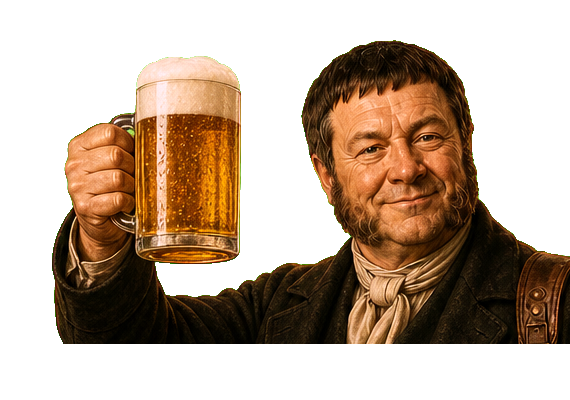
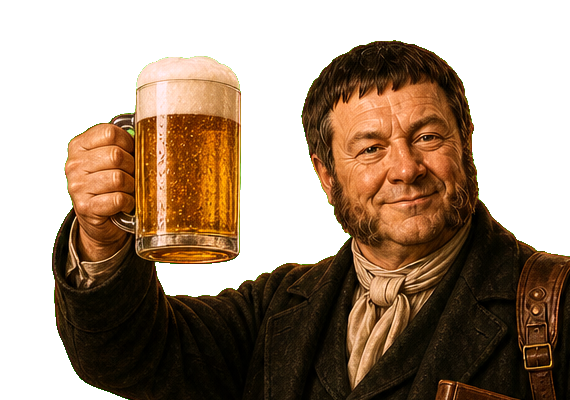
úprava selfie
selfie Groll

Changed region(s): [[0.1193, 0.84, 1.0, 1.0]]

diff --git a/app.js b/app.js
@@ -1557,10 +1557,11 @@ function openSelfieBooth(){
    <img id="selfieGroll" class="selfie-groll" src="${SELFIE_GROLL_SRC}" alt="Josef Groll připíjí pivem">
    <canvas id="selfieCanvas" class="selfie-canvas" width="1080" height="1440"></canvas>
    <img id="selfieResult" class="selfie-result" alt="Historická selfie s Grollem">
+   <div class="selfie-brand-strip"><span>Grollova zlatá stopa</span><b>Hravá Plzeň</b></div>
    <button id="selfieCaptureBtn" class="selfie-capture-btn" type="button" onclick="captureGrollSelfie()">Vyfotit</button>
   </div>
   <div class="selfie-controls">
-   <label>Velikost Grolla <input id="selfieSize" type="range" min="26" max="72" value="38" oninput="updateSelfieOverlay()"></label>
+   <label>Velikost Grolla <input id="selfieSize" type="range" min="22" max="64" value="34" oninput="updateSelfieOverlay()"></label>
    <label>Posun do stran <input id="selfieX" type="range" min="0" max="100" value="82" oninput="updateSelfieOverlay()"></label>
    <label>Výška <input id="selfieY" type="range" min="0" max="55" value="0" oninput="updateSelfieOverlay()"></label>
   </div>
@@ -1599,7 +1600,7 @@ function updateSelfieStageShape(){
 function updateSelfieOverlay(){
  const img=$('#selfieGroll');
  if(!img) return;
- const size=Number($('#selfieSize')?.value || 38);
+ const size=Number($('#selfieSize')?.value || 34);
  const x=Number($('#selfieX')?.value || 82);
  const y=Number($('#selfieY')?.value || 0);
  img.style.height=size+'%';
@@ -1607,23 +1608,26 @@ function updateSelfieOverlay(){
  img.style.bottom=y+'%';
 }
 function selfieVintageFilter(){
- return 'sepia(.46) saturate(.82) contrast(1.12) brightness(1.02)';
+ return 'sepia(.24) saturate(.78) contrast(1.04) brightness(.98)';
+}
+function selfieGrollFilter(){
+ return 'sepia(.62) saturate(.48) contrast(.92) brightness(.58)';
 }
 async function captureGrollSelfie(){
  const video=$('#selfieVideo'), groll=$('#selfieGroll'), canvas=$('#selfieCanvas'), result=$('#selfieResult'), status=$('#selfieStatus'), captureBtn=$('#selfieCaptureBtn');
  if(!video || !groll || !canvas || !video.videoWidth){ if(status) status.textContent='Fotoaparát ještě není připravený.'; return; }
- const portrait=video.videoHeight>=video.videoWidth;
+ const portrait=!$('#selfieStage')?.classList.contains('landscape');
  canvas.width=portrait ? 1080 : 1440;
  canvas.height=portrait ? 1440 : 1080;
  const ctx=canvas.getContext('2d');
  ctx.save();
- ctx.filter=selfieVintageFilter();
+ ctx.filter='contrast(1.02) brightness(.98) saturate(.92)';
  ctx.translate(canvas.width,0);
  ctx.scale(-1,1);
  drawCover(ctx, video, 0, 0, canvas.width, canvas.height);
  ctx.restore();
  const overlay=await loadImage(SELFIE_GROLL_SRC);
- const size=Number($('#selfieSize')?.value || 38)/100;
+ const size=Number($('#selfieSize')?.value || 34)/100;
  const xPct=Number($('#selfieX')?.value || 82)/100;
  const yPct=Number($('#selfieY')?.value || 0)/100;
  const gh=canvas.height*size;
@@ -1631,9 +1635,11 @@ async function captureGrollSelfie(){
  const gx=canvas.width*xPct-gw/2;
  const gy=canvas.height-canvas.height*yPct-gh;
  ctx.save();
- ctx.filter=selfieVintageFilter();
+ ctx.filter=selfieGrollFilter();
+ ctx.globalAlpha=.88;
  ctx.drawImage(overlay,gx,gy,gw,gh);
  ctx.restore();
+ applyAntiquePhoto(ctx, canvas);
  drawSelfieFinish(ctx, canvas);
  selfieLastBlob=await new Promise(resolve=>canvas.toBlob(resolve,'image/png'));
  if(result && selfieLastBlob){
@@ -1642,6 +1648,7 @@ async function captureGrollSelfie(){
   video.style.display='none';
   groll.style.display='none';
   if(captureBtn) captureBtn.style.display='none';
+  $('#selfieStage')?.classList.add('captured');
  }
  if(status) status.textContent='Hotovo. Fotku si můžete stáhnout nebo sdílet přes telefon.';
  addLog('selfie_captured');
@@ -1653,13 +1660,26 @@ function drawCover(ctx, source, x, y, w, h){
  const dw=sw*scale, dh=sh*scale;
  ctx.drawImage(source,x+(w-dw)/2,y+(h-dh)/2,dw,dh);
 }
+function applyAntiquePhoto(ctx, canvas){
+ const image=ctx.getImageData(0,0,canvas.width,canvas.height);
+ const data=image.data;
+ for(let i=0;i<data.length;i+=4){
+  const r=data[i], g=data[i+1], b=data[i+2];
+  let lum=0.299*r+0.587*g+0.114*b;
+  lum=(lum-128)*1.04+128;
+  data[i]=clamp(Math.round(lum*.98+34),0,255);
+  data[i+1]=clamp(Math.round(lum*.84+28),0,255);
+  data[i+2]=clamp(Math.round(lum*.58+18),0,255);
+ }
+ ctx.putImageData(image,0,0);
+}
 function drawSelfieFinish(ctx, canvas){
  ctx.save();
  ctx.globalCompositeOperation='multiply';
- ctx.fillStyle='rgba(214,167,94,.18)';
+ ctx.fillStyle='rgba(196,139,72,.16)';
  ctx.fillRect(0,0,canvas.width,canvas.height);
  ctx.globalCompositeOperation='screen';
- ctx.fillStyle='rgba(255,232,176,.08)';
+ ctx.fillStyle='rgba(255,230,178,.06)';
  ctx.fillRect(0,0,canvas.width,canvas.height);
  ctx.restore();
  const vignette=ctx.createRadialGradient(canvas.width/2,canvas.height/2,canvas.width*.18,canvas.width/2,canvas.height/2,canvas.width*.82);
@@ -1670,18 +1690,23 @@ function drawSelfieFinish(ctx, canvas){
  ctx.fillRect(0,0,canvas.width,canvas.height);
  ctx.fillStyle='rgba(255,236,184,.10)';
  ctx.fillRect(0,0,canvas.width,canvas.height);
- ctx.strokeStyle='rgba(76,38,8,.65)';
- ctx.lineWidth=Math.max(18,canvas.width*.018);
- ctx.strokeRect(ctx.lineWidth/2,ctx.lineWidth/2,canvas.width-ctx.lineWidth,canvas.height-ctx.lineWidth);
- const labelPad=Math.round(canvas.width*.018);
- const labelH=Math.round(canvas.width*.048);
- ctx.fillStyle='rgba(43,24,10,.34)';
- ctx.fillRect(labelPad,canvas.height-labelH-labelPad,labelH*9,labelH);
+ const border=Math.max(22,canvas.width*.022);
+ ctx.strokeStyle='rgba(71,38,14,.9)';
+ ctx.lineWidth=border;
+ ctx.strokeRect(border/2,border/2,canvas.width-border,canvas.height-border);
+ ctx.strokeStyle='rgba(245,205,126,.62)';
+ ctx.lineWidth=Math.max(5,canvas.width*.006);
+ ctx.strokeRect(border*1.15,border*1.15,canvas.width-border*2.3,canvas.height-border*2.3);
+ const labelH=Math.round(canvas.height*.052);
+ ctx.fillStyle='rgba(35,18,7,.72)';
+ ctx.fillRect(0,canvas.height-labelH,canvas.width,labelH);
+ ctx.fillStyle='rgba(245,205,126,.82)';
+ ctx.fillRect(0,canvas.height-labelH,canvas.width,Math.max(3,canvas.height*.004));
  ctx.fillStyle='#f8dfaa';
  ctx.textAlign='center';
  ctx.textBaseline='middle';
- ctx.font=`700 ${Math.round(canvas.width*.024)}px Georgia, "Times New Roman", serif`;
- ctx.fillText('Grollova zlatá stopa · Hravá Plzeň', labelPad+(labelH*4.5), canvas.height-labelPad-(labelH/2));
+ ctx.font=`700 ${Math.round(canvas.width*.025)}px Georgia, "Times New Roman", serif`;
+ ctx.fillText('Grollova zlatá stopa · Hravá Plzeň', canvas.width/2, canvas.height-labelH/2);
 }
 function retakeGrollSelfie(){
  const video=$('#selfieVideo'), groll=$('#selfieGroll'), result=$('#selfieResult'), status=$('#selfieStatus'), captureBtn=$('#selfieCaptureBtn');
@@ -1689,6 +1714,7 @@ function retakeGrollSelfie(){
  if(video) video.style.display='block';
  if(groll) groll.style.display='block';
  if(captureBtn) captureBtn.style.display='inline-flex';
+ $('#selfieStage')?.classList.remove('captured');
  if(status) status.textContent='Nastavte záběr a vyfoťte se znovu.';
 }
 function selfieFileName(){

diff --git a/style.css b/style.css
@@ -1483,7 +1483,7 @@
   position:relative;
   overflow:hidden;
   aspect-ratio:3/4;
-  max-height:min(62dvh,640px);
+  max-height:min(66dvh,680px);
   width:100%;
   margin:0 auto;
   border-radius:22px;
@@ -1493,7 +1493,7 @@
 }
 .selfie-stage.landscape{
   aspect-ratio:4/3;
-  max-height:min(58dvh,520px);
+  max-height:none;
 }
 .selfie-video,
 .selfie-canvas,
@@ -1506,7 +1506,7 @@
 }
 .selfie-video{
   transform:scaleX(-1);
-  filter:sepia(.46) saturate(.82) contrast(1.12) brightness(1.02);
+  filter:sepia(.24) saturate(.78) contrast(1.04) brightness(.98);
 }
 .selfie-canvas{
   display:none;
@@ -1519,10 +1519,11 @@
   position:absolute;
   z-index:2;
   transform:translateX(-50%);
-  height:38%;
+  height:34%;
   max-width:none;
   pointer-events:none;
-  filter:sepia(.46) saturate(.82) contrast(1.12) brightness(1.02) drop-shadow(0 12px 18px rgba(0,0,0,.35));
+  opacity:.88;
+  filter:sepia(.62) saturate(.48) contrast(.92) brightness(.58) drop-shadow(0 12px 18px rgba(0,0,0,.35));
 }
 .selfie-stage::after{
   content:"";
@@ -1531,15 +1532,42 @@
   z-index:3;
   pointer-events:none;
   background:
-    radial-gradient(circle at center, rgba(255,236,184,0) 46%, rgba(50,24,7,.34) 100%),
-    linear-gradient(0deg, rgba(130,78,28,.14), rgba(255,232,176,.08));
+    radial-gradient(circle at center, rgba(255,236,184,0) 54%, rgba(50,24,7,.18) 100%),
+    linear-gradient(0deg, rgba(130,78,28,.08), rgba(255,232,176,.05));
   mix-blend-mode:multiply;
+}
+.selfie-stage.captured::after{
+  display:none;
+}
+.selfie-brand-strip{
+  position:absolute;
+  z-index:4;
+  left:0;
+  right:0;
+  bottom:0;
+  height:38px;
+  display:flex;
+  align-items:center;
+  justify-content:center;
+  gap:8px;
+  background:rgba(35,18,7,.72);
+  border-top:2px solid rgba(245,205,126,.72);
+  color:#f8dfaa;
+  font-family:Georgia,'Times New Roman',serif;
+  font-size:13px;
+  pointer-events:none;
+}
+.selfie-brand-strip span{
+  font-weight:700;
+}
+.selfie-brand-strip b{
+  font-weight:900;
 }
 .selfie-capture-btn{
   position:absolute;
   z-index:5;
   left:50%;
-  bottom:12px;
+  bottom:48px;
   transform:translateX(-50%);
   display:inline-flex;
   align-items:center;
@@ -1548,7 +1576,7 @@
   border:0;
   border-radius:999px;
   padding:12px 20px;
-  background:rgba(111,61,18,.92);
+  background:rgba(111,61,18,.95);
   color:#fff5d6;
   font-weight:900;
   box-shadow:0 10px 26px rgba(0,0,0,.34);
@@ -1581,7 +1609,7 @@
 @media(orientation:landscape) and (max-height:560px){
   .selfie-stage,
   .selfie-stage.landscape{
-    max-height:56dvh;
+    max-height:none;
   }
   .selfie-controls{
     grid-template-columns:repeat(3,1fr);

diff --git a/index.html b/index.html
@@ -12,13 +12,13 @@
   <meta property="og:image" content="https://hrava-plzen.cz/assets/images/Groll_pro_web.jpg" />
   <link rel="canonical" href="https://hrava-plzen.cz/" />
   <link rel="manifest" href="manifest.webmanifest" />
-  <link rel="stylesheet" href="style.css?v=136" />
+  <link rel="stylesheet" href="style.css?v=138" />
 </head>
 <body>
   <div id="app" class="app-shell"></div>
   <div id="toast" class="toast" aria-live="polite"></div>
-  <script src="game-data.js?v=136"></script>
-  <script src="app.js?v=136"></script>
+  <script src="game-data.js?v=138"></script>
+  <script src="app.js?v=138"></script>
 </body>
 </html>
 

diff --git a/sw.js b/sw.js
@@ -1,5 +1,5 @@
-const CACHE='grollova-cesta-v136-selfie-vintage';
-const STATIC=['./','./index.html','./404.html','./style.css','./style.css?v=136','./app.js','./app.js?v=136','./game-data.js','./game-data.js?v=136','./manifest.webmanifest','./assets/images/certifikat-bez-titulu.jpg','./assets/images/groll_uvod.jpg','./assets/images/Groll_logo_na_sirku.jpg','./assets/images/Groll_logo_na_vysku.jpg','./assets/images/06_velka_synagoga_reseni_trojuhelniky.png','./assets/images/web_darkovy_voucher_fade.png','./assets/images/web_klice.jpg','./assets/images/groll_selfie_overlay.png'];
+const CACHE='grollova-cesta-v138-selfie-antique';
+const STATIC=['./','./index.html','./404.html','./style.css','./style.css?v=138','./app.js','./app.js?v=138','./game-data.js','./game-data.js?v=138','./manifest.webmanifest','./assets/images/certifikat-bez-titulu.jpg','./assets/images/groll_uvod.jpg','./assets/images/Groll_logo_na_sirku.jpg','./assets/images/Groll_logo_na_vysku.jpg','./assets/images/06_velka_synagoga_reseni_trojuhelniky.png','./assets/images/web_darkovy_voucher_fade.png','./assets/images/web_klice.jpg','./assets/images/groll_selfie_overlay.png'];
 self.addEventListener('install',e=>{e.waitUntil(caches.open(CACHE).then(c=>c.addAll(STATIC)).then(()=>self.skipWaiting()))});
 self.addEventListener('activate',e=>{e.waitUntil(caches.keys().then(keys=>Promise.all(keys.filter(k=>k!==CACHE).map(k=>caches.delete(k)))).then(()=>self.clients.claim()))});
 self.addEventListener('fetch',e=>{ if(e.request.method!=='GET') return; e.respondWith(fetch(e.request).then(resp=>{ const copy=resp.clone(); caches.open(CACHE).then(c=>c.put(e.request,copy)); return resp; }).catch(()=>caches.match(e.request).then(r=>r||caches.match('./index.html')))); });